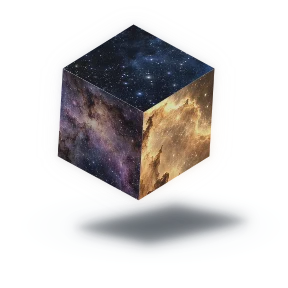
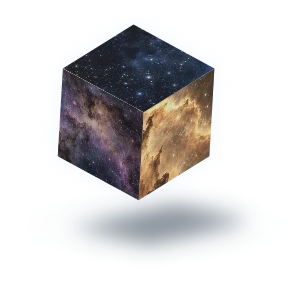
Polish Stellar cube with portable soft lighting and compact branding

Changed region(s): [[0.2812, 0.7188, 0.8438, 0.8438]]

diff --git a/web/src/lib/stellar-renderer.ts b/web/src/lib/stellar-renderer.ts
@@ -1,3 +1,4 @@
+import { createSoftMask } from './canvas-soft-mask.ts'
 import type { StellarMotion } from './stellar-motion'
 
 // Canvas layers are reused across theme/activity changes: the three faces never swap meshes.
@@ -32,8 +33,6 @@ export function createStellarRenderer(
   const fill = norm([0.85, -0.18, 0.65])
   const modelBuffer = makeCanvas(),
     modelContext = modelBuffer.getContext('2d')!
-  const bloomBuffer = makeCanvas(),
-    bloomContext = bloomBuffer.getContext('2d')!
   const shadowBuffer = makeCanvas(),
     shadowContext = shadowBuffer.getContext('2d')!
   function rotate([x, y, z]: number[], yaw: number, pitch: number) {
@@ -77,6 +76,29 @@ export function createStellarRenderer(
       .sort((a, b) => a.z - b.z)
     return { rotated, planes }
   }
+  // Bake the photographic toning once. Canvas filters are absent in some browsers.
+  const materials = scenes.map((scene, index) => {
+    const texture = makeCanvas()
+    texture.width = texture.height = N
+    const ctx = texture.getContext('2d')!
+    ctx.drawImage(scene, 0, 0, N, N)
+    const pixels = ctx.getImageData(0, 0, N, N)
+    const contrast = 1 - options.softness * 0.28
+    const saturation = 1 - options.softness * 0.24
+    const brightness = index === 2 ? options.goldLift : 1.065
+    for (let i = 0; i < pixels.data.length; i += 4) {
+      const luminance = pixels.data[i] * 0.2126 + pixels.data[i + 1] * 0.7152 + pixels.data[i + 2] * 0.0722
+      for (let c = 0; c < 3; c++) {
+        const colour = luminance + (pixels.data[i + c] - luminance) * saturation
+        pixels.data[i + c] = ((colour - 127.5) * contrast + 127.5) * brightness
+      }
+    }
+    ctx.putImageData(pixels, 0, 0)
+    return texture
+  })
+
+  const softMask = createSoftMask(makeCanvas)
+  const softSilhouette = softMask.draw
   function material(
     ctx: CanvasRenderingContext2D,
     points: number[][],
@@ -99,16 +121,7 @@ export function createStellarRenderer(
       travel = (N * (scale - 1)) / 2,
       x = -travel * (1 + Math.sin(phase / 520 + scene * 1.7)),
       y = -travel * (1 + Math.cos(phase / 712 + scene * 2.1))
-    ctx.filter = `contrast(${1 - options.softness * 0.22}) saturate(${1 - options.softness * 0.2}) brightness(${scene === 2 ? options.goldLift : 1.035})`
-    ctx.drawImage(scenes[scene], x, y, N * scale, N * scale)
-    ctx.filter = 'none'
-    // Broad, low-opacity bloom fills the dark gaps without erasing the sharp stars.
-    ctx.save()
-    ctx.globalCompositeOperation = 'screen'
-    ctx.globalAlpha = 0.16 * options.softness
-    ctx.filter = 'blur(12px)'
-    ctx.drawImage(scenes[scene], x, y, N * scale, N * scale)
-    ctx.restore()
+    ctx.drawImage(materials[scene], x, y, N * scale, N * scale)
     ctx.fillStyle = `rgba(0,5,17,${shade})`
     ctx.fillRect(0, 0, N, N)
     if (scene === 2) {
@@ -158,16 +171,11 @@ export function createStellarRenderer(
     }
     sc.restore()
     const meanHeight = height / count,
-      softness = r * (0.024 + 0.035 * meanHeight)
-    ctx.save()
-    ctx.globalAlpha = (dark ? 0.52 : 0.22) * options.shadow
-    ctx.filter = `blur(${softness}px)`
-    ctx.drawImage(shadowBuffer, 0, 0)
-    ctx.globalAlpha = (dark ? 0.13 : 0.095) * options.shadow
-    ctx.filter = `blur(${softness * 0.4}px)`
-    ctx.drawImage(shadowBuffer, 0, 0)
-    ctx.restore()
+      softness = r * (0.15 + 0.055 * meanHeight)
+    softSilhouette(ctx, shadowBuffer, '#132335', softness, (dark ? 0.43 : 0.17) * options.shadow)
+    softSilhouette(ctx, shadowBuffer, '#132335', softness * 0.5, (dark ? 0.12 : 0.055) * options.shadow)
   }
+
   function drawModel(ctx: CanvasRenderingContext2D, g: ReturnType<typeof geometry>) {
     for (const f of g.planes) {
       const points = f.v.map((v) => [v[0], v[1]]),
@@ -285,30 +293,11 @@ export function createStellarRenderer(
     mc.scale(r, r)
     drawModel(mc, g)
     mc.restore()
-    // Lift the silhouette into a luminous bloom; dark nebulae must not cast a false halo-shadow.
-    if (bloomBuffer.width !== w || bloomBuffer.height !== h) {
-      bloomBuffer.width = w
-      bloomBuffer.height = h
-    }
-    const bc = bloomContext
-    bc.clearRect(0, 0, w, h)
-    bc.drawImage(modelBuffer, 0, 0)
-    bc.save()
-    bc.globalCompositeOperation = 'source-atop'
-    const halo = bc.createLinearGradient(cx - r, cy - r, cx + r, cy + r)
-    halo.addColorStop(0, 'rgba(199,221,255,.58)')
-    halo.addColorStop(1, 'rgba(255,223,190,.58)')
-    bc.fillStyle = halo
-    bc.fillRect(0, 0, w, h)
-    bc.restore()
+    // A broad atmosphere and a tighter cool rim use the same mask as the cube.
     ctx.save()
     ctx.globalCompositeOperation = dark ? 'screen' : 'source-over'
-    ctx.globalAlpha = options.glow * 0.48
-    ctx.filter = `blur(${r * 0.045}px)`
-    ctx.drawImage(bloomBuffer, 0, 0)
-    ctx.globalAlpha = options.glow * 0.16
-    ctx.filter = `blur(${r * 0.14}px)`
-    ctx.drawImage(bloomBuffer, 0, 0)
+    softSilhouette(ctx, modelBuffer, dark ? '#a7c9ef' : '#bacde3', r * 0.23, options.glow * (dark ? 0.18 : 0.12))
+    softSilhouette(ctx, modelBuffer, '#d5e4f5', r * 0.075, options.glow * 0.23)
     ctx.restore()
     ctx.drawImage(modelBuffer, 0, 0)
     return canvas
@@ -317,7 +306,8 @@ export function createStellarRenderer(
     render,
     destroy() {
       disposed = true
-      for (const buffer of [canvas, modelBuffer, bloomBuffer, shadowBuffer])
+      softMask.destroy()
+      for (const buffer of [canvas, modelBuffer, shadowBuffer, ...materials])
         buffer.width = buffer.height = 1
     },
   }

diff --git a/web/src/lib/canvas-soft-mask.ts b/web/src/lib/canvas-soft-mask.ts
@@ -1,0 +1,52 @@
+// Small alpha masks keep soft lighting consistent across Canvas implementations.
+// Three separable box passes approximate a Gaussian without a Canvas filter dependency.
+export function createSoftMask(makeCanvas: () => HTMLCanvasElement) {
+  const size = 64
+  const canvas = makeCanvas()
+  canvas.width = canvas.height = size
+  const ctx = canvas.getContext('2d', { willReadFrequently: true })!
+  const alpha = new Float32Array(size * size)
+  const scratch = new Float32Array(size * size)
+
+  function pass(source: Float32Array, target: Float32Array, radius: number, vertical: boolean) {
+    const span = radius * 2 + 1
+    const stride = vertical ? size : 1
+    for (let line = 0; line < size; line++) {
+      const start = vertical ? line : line * size
+      let sum = 0
+      for (let i = 0; i <= radius; i++) sum += source[start + i * stride]
+      for (let i = 0; i < size; i++) {
+        target[start + i * stride] = sum / span
+        if (i >= radius) sum -= source[start + (i - radius) * stride]
+        if (i + radius + 1 < size) sum += source[start + (i + radius + 1) * stride]
+      }
+    }
+  }
+
+  return {
+    draw(target: CanvasRenderingContext2D, source: HTMLCanvasElement, colour: string, blur: number, opacity: number) {
+      ctx.clearRect(0, 0, size, size)
+      ctx.drawImage(source, 0, 0, size, size)
+      const pixels = ctx.getImageData(0, 0, size, size)
+      for (let i = 0; i < alpha.length; i++) alpha[i] = pixels.data[i * 4 + 3]
+      const radius = Math.max(1, Math.round(blur * size / source.width / 2))
+      for (let i = 0; i < 3; i++) {
+        pass(alpha, scratch, radius, false)
+        pass(scratch, alpha, radius, true)
+      }
+      for (let i = 0; i < alpha.length; i++) pixels.data[i * 4 + 3] = alpha[i]
+      ctx.putImageData(pixels, 0, 0)
+      ctx.globalCompositeOperation = 'source-in'
+      ctx.fillStyle = colour
+      ctx.fillRect(0, 0, size, size)
+      ctx.globalCompositeOperation = 'source-over'
+      target.save()
+      target.globalAlpha = opacity
+      target.imageSmoothingEnabled = true
+      target.imageSmoothingQuality = 'high'
+      target.drawImage(canvas, 0, 0, source.width, source.height)
+      target.restore()
+    },
+    destroy() { canvas.width = canvas.height = 1 },
+  }
+}

diff --git a/web/src/lib/stellar-renderer.test.ts b/web/src/lib/stellar-renderer.test.ts
@@ -1,0 +1,36 @@
+/// <reference lib="dom" />
+import { strict as assert } from 'node:assert'
+import { test } from 'node:test'
+import { createCanvas, loadImage, type Canvas } from '@napi-rs/canvas'
+import { createStellarRenderer } from './stellar-renderer.ts'
+import { createStellarMotion } from './stellar-motion.ts'
+
+// Some browser Canvas implementations ignore filter assignments entirely.
+// The actual material, halo and cast shadow must survive that capability gap.
+test('stellar lighting is identical with and without Canvas filter support', async () => {
+  const scenes = await Promise.all(['blue', 'pink', 'gold'].map(name =>
+    loadImage(new URL(`./assets/stellar/${name}-scene.jpg`, import.meta.url).pathname)))
+  const render = (filters: boolean) => createStellarRenderer(scenes as unknown as CanvasImageSource[], () => {
+    const canvas = createCanvas(1, 1)
+    if (!filters) Object.defineProperty(canvas.getContext('2d'), 'filter', { get: () => 'none', set: () => {} })
+    return canvas as unknown as HTMLCanvasElement
+  })
+  const supported = render(true), unsupported = render(false)
+  const motion = createStellarMotion()
+  for (const working of [false, true]) {
+    if (working) for (let i = 0; i < 17 * 60; i++) motion.step(1 / 60, true)
+    for (const dark of [false, true]) {
+      const a = supported.render(motion, dark, 288) as unknown as Canvas
+      const b = unsupported.render(motion, dark, 288) as unknown as Canvas
+      const expected = Buffer.from(a.getContext('2d').getImageData(0, 0, 288, 288).data)
+      const actual = Buffer.from(b.getContext('2d').getImageData(0, 0, 288, 288).data)
+      assert.ok(actual.equals(expected), `Filter support must not change the ${dark ? 'dark' : 'light'} ${working ? 'working' : 'idle'} icon`)
+    }
+  }
+  const still = supported.render(createStellarMotion(), false, 288) as unknown as Canvas
+  const shadow = still.getContext('2d').getImageData(80, 213, 140, 55).data
+  const opacity = Array.from(shadow).filter((_, index) => index % 4 === 3)
+  assert.ok(Math.max(...opacity) > 10, 'A visible cast shadow must survive without Canvas filters')
+  assert.ok(Math.max(...opacity) < 65, 'The shadow should be translucent, not a solid platform')
+  supported.destroy(); unsupported.destroy()
+})

diff --git a/web/src/lib/components/Sidebar.svelte b/web/src/lib/components/Sidebar.svelte
@@ -87,9 +87,9 @@
 >
   <div class="min-h-0 flex-1 overflow-y-auto overscroll-contain">
   <div class="flex min-h-full flex-col">
-  <!-- The cube stays fixed at rest and its slices turn while the server works. -->
+  <!-- A calm identity above the operational navigation; activity animates the chosen mark. -->
   <button
-    class="relative flex w-full flex-col items-center px-3 transition-colors focus-visible:outline-none focus-visible:ring-2 focus-visible:ring-accent/60 focus-visible:ring-inset {railCollapsed ? 'px-2 pt-5 pb-3' : 'pt-7 pb-1'}"
+    class="relative flex w-full flex-col items-center px-3 transition-colors focus-visible:outline-none focus-visible:ring-2 focus-visible:ring-accent/60 focus-visible:ring-inset {railCollapsed ? 'px-2 pt-5 pb-3' : 'pt-5 pb-1'}"
     aria-label={i18n.m.nav.dashboard}
     onclick={() => {
       router.go('/')
@@ -97,13 +97,13 @@
     }}
   >
     <BrandMark
-      class="relative flex-shrink-0 {railCollapsed ? 'h-10 w-10' : 'h-36 w-36'}"
+      class="relative flex-shrink-0 {railCollapsed ? 'h-10 w-10' : 'h-32 w-32'}"
     />
 
     {#if !railCollapsed}
       <!-- Keep the contact shadow clear of the wordmark. -->
       <span
-        class="relative -mt-3 text-[18px] font-bold tracking-tight text-ink [text-shadow:0_1px_10px_var(--panel)]"
+        class="relative -mt-2 text-[18px] font-bold tracking-tight text-ink [text-shadow:0_1px_10px_var(--panel)]"
       >Optimisarr</span>
     {/if}
   </button>

diff --git a/web/e2e/dashboard.spec.ts b/web/e2e/dashboard.spec.ts
@@ -391,7 +391,7 @@ test('the cube has smooth edges and moving illumination when idle', async ({ pag
     for (let i = 3; i < pixels.length; i += 4) if (pixels[i] > 0 && pixels[i] < 255) partial++
     return partial
   })).toBeGreaterThan(100)
-  expect(await mark.evaluate((el: HTMLCanvasElement) => el.width)).toBeGreaterThanOrEqual(288)
+  expect(await mark.evaluate((el: HTMLCanvasElement) => el.width / el.getBoundingClientRect().width)).toBeGreaterThanOrEqual(2)
   expect(await mark.evaluate(el => getComputedStyle(el).imageRendering)).toBe('auto')
   await expect(mark).toHaveAttribute('data-light-motion', 'playing')
   const still = await mark.evaluate((el: HTMLCanvasElement) => el.toDataURL())

diff --git a/CHANGELOG.md b/CHANGELOG.md
@@ -4,6 +4,11 @@
 
 ### Changed
 
+- **The Stellar cube has softer, consistent lighting.** Its moving shadow now fades
+  naturally instead of appearing as a hard grey platform when Canvas filters are
+  unavailable. Gentler star-field toning, a subtle halo and tighter sidebar spacing
+  carry through light/dark themes, reduced-motion stills and favicons.
+
 - **Setup now follows the current application theme from start to finish.** Theme and
   language controls are available during onboarding, with clearer status colours,
   keyboard focus and a mobile-friendly folder picker. Failed checks can be retried,
